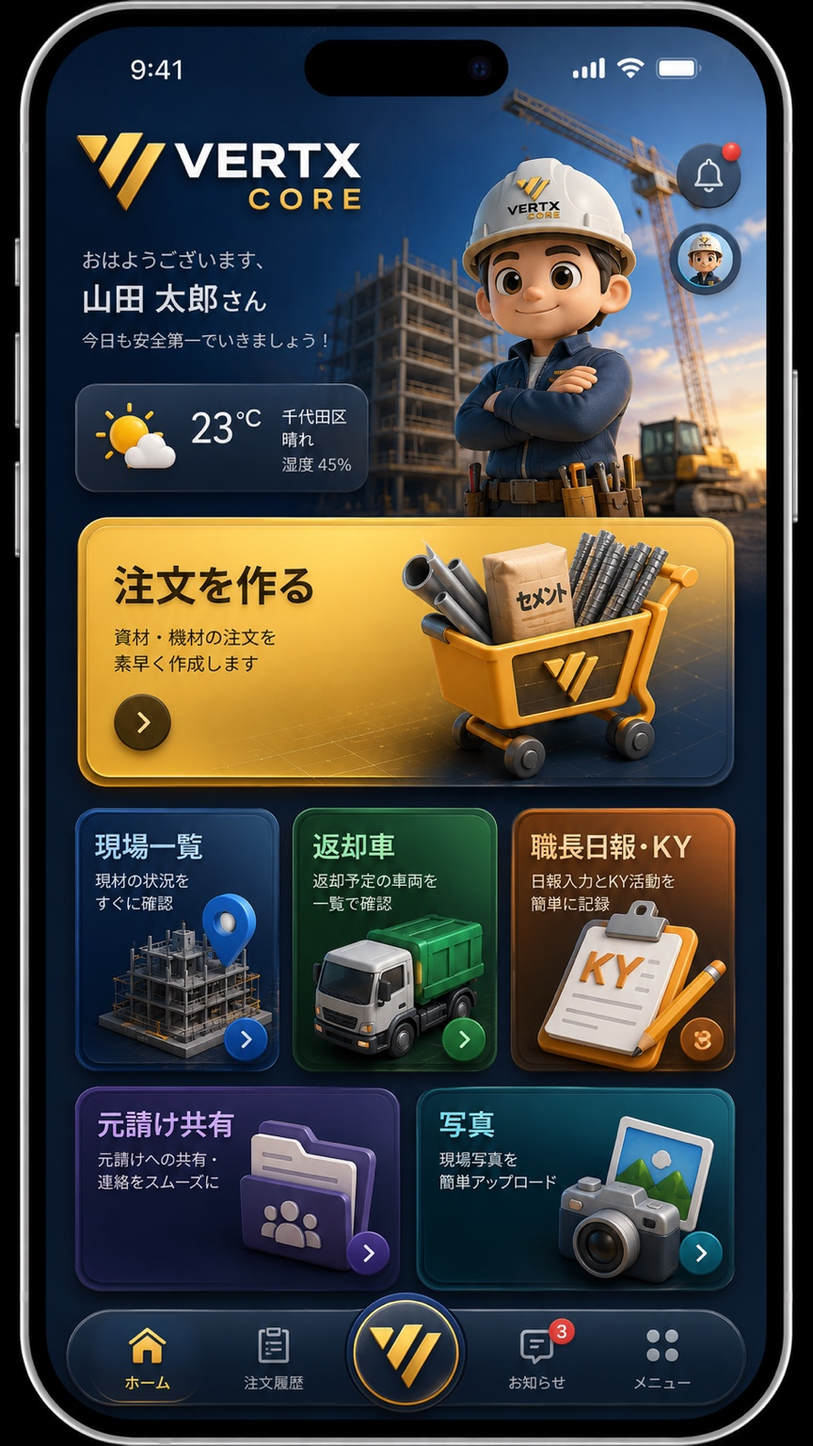
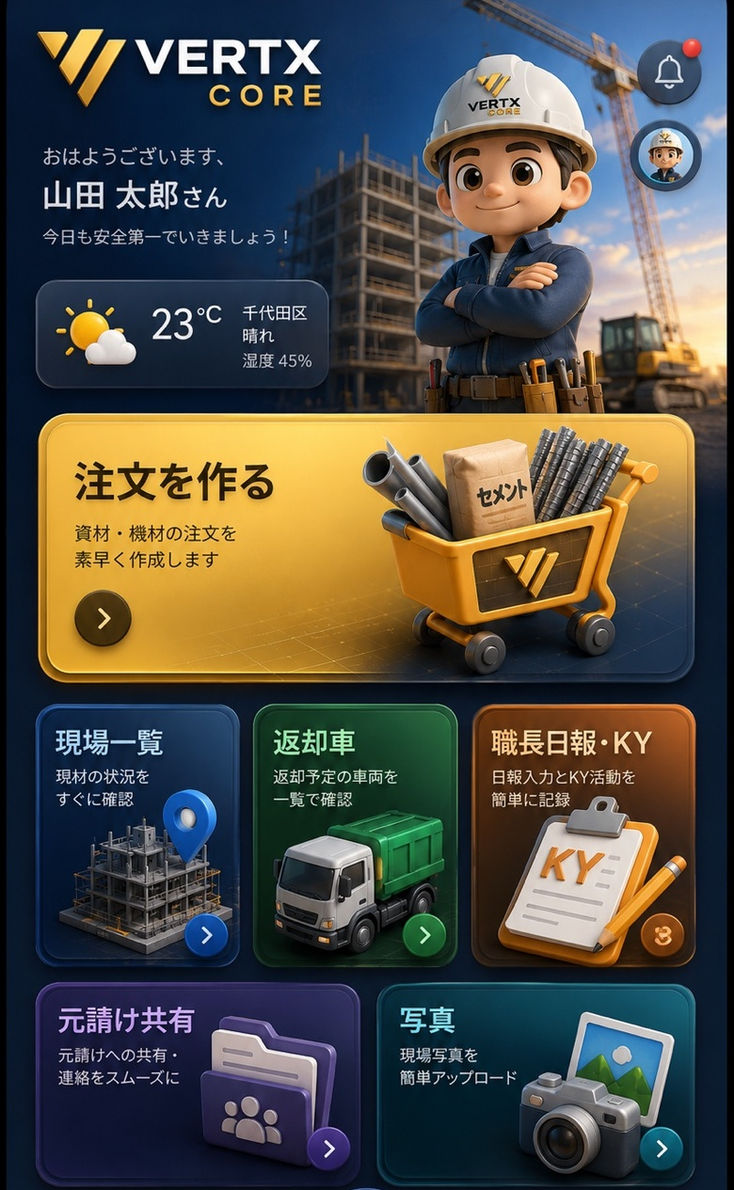
Add files via upload

diff --git a/v734work/app.js b/v734work/app.js
@@ -1,4 +1,4 @@
-const VERTX_BUILD='7.34.0';
+const VERTX_BUILD='7.35.0';
 // VERTX CORE v5.8 NEXT UI + BILLING
 const VERTX_SESSION_KEY='vertx_core_company_session';
 let supabaseClient=null;
@@ -47,7 +47,7 @@ async function runSystemCheck(){
   checks.push(['資材ID重複',new Set(ids).size===ids.length,`${ids.length}件`]);
   checks.push(['資材名重複',new Set(names).size===names.length,`${names.length}件`]);
   checks.push(['注文下書き',true,Object.keys(state.cart||{}).length?`${Object.keys(state.cart).length}種類保存中`:'空']);
-  const coreIssues=runCoreSelfCheck();checks.push(['画面・ボタン整合性',coreIssues.length===0,coreIssues.length?coreIssues.slice(0,3).join(' / '):'主要画面・リンクOK']);checks.push(['ビルド',VERTX_BUILD==='7.34.0',`v${VERTX_BUILD}`]);
+  const coreIssues=runCoreSelfCheck();checks.push(['画面・ボタン整合性',coreIssues.length===0,coreIssues.length?coreIssues.slice(0,3).join(' / '):'主要画面・リンクOK']);checks.push(['ビルド',VERTX_BUILD==='7.35.0',`v${VERTX_BUILD}`]);
   try{const r=await fetch('/api/config',{cache:'no-store'});const cfg=await r.json();checks.push(['クラウド設定',Boolean(cfg.configured),cfg.configured?'Supabase OK':'設定不足']);checks.push(['AI/課金API',r.ok,r.ok?'API応答OK':'API応答エラー']);}catch(e){checks.push(['API接続',false,'接続できません']) }
   out.innerHTML=checks.map(([n,ok,d])=>`<div class="dev-check-row ${ok?'ok':'ng'}"><span>${ok?'✓':'!'} ${escapeHtml(n)}</span><small>${escapeHtml(d)}</small></div>`).join('');
   audit('システム診断',checks.every(x=>x[1])?'PASS':'要確認');
@@ -188,6 +188,7 @@ function go(screenId){
   $$('.nav-item').forEach(el=>el.classList.toggle('active',el.dataset.go===screenId || (screenId==='confirm'&&el.dataset.go==='order')));
   if(screenId==='history')renderHistory(); if(screenId==='more')updateLearningCount(); if(screenId==='confirm')renderConfirm(); if(screenId==='sites')renderSites(); if(screenId==='favorites')renderFavorites(); if(screenId==='materialsMaster')renderMaterialMaster(); if(screenId==='drawings')renderDrawings();if(screenId==='assist')loadAssistDrawings();if(screenId==='siteStock')renderSiteStock();if(screenId==='shortage')renderShortage();if(screenId==='sets')renderSets();if(screenId==='dispatch')renderDispatch();if(screenId==='compare')loadCompareDrawings();if(screenId==='siteDashboard')renderSiteDashboard();if(screenId==='analytics')renderAnalytics();if(screenId==='members')renderMembers();if(screenId==='plans')renderPlans();if(screenId==='returns')renderReturns();if(screenId==='returnLoad')renderReturnLoad();if(screenId==='siteCosts')renderSiteCosts();if(screenId==='siteQr')renderSiteQr();if(screenId==='suppliers')renderSuppliers();if(screenId==='auditLog')renderAuditLog();if(screenId==='devTest')renderDevTestPanel();if(screenId==='dailyReport')renderDailyReport();if(screenId==='siteAlbum')renderSiteAlbum();if(screenId==='clientShare')renderClientShare();
   applyViewerReadOnly(screenId);
+  if(screenId==='home'){renderHomeIdentityLive();updateHomeNoticeBadge();refreshHomeWeather(false)}
   window.scrollTo({top:0,behavior:'instant'});
 }
 function totals(){return MATERIALS.reduce((a,m)=>{const q=state.cart[m.id]||0;a.qty+=q;a.weight+=q*Number(m.weight||0);return a},{qty:0,weight:0})}
@@ -311,7 +312,7 @@ function printOrderById(id){const o=getHistory().find(x=>x.id===id);if(o)printOr
 function printDraft(){const o=currentDraft();if(!o.items.length)return toast('資材を選択してください');printOrder(o)}
 async function printOrder(o){
   const area=$('#printArea');
-  area.innerHTML=`<div class="print-sheet" style="display:block;background:#fff;color:#111;width:794px;min-height:1123px;padding:48px;box-sizing:border-box;font-family:-apple-system,BlinkMacSystemFont,'Noto Sans JP','Yu Gothic',sans-serif"><h1 style="font-size:28px;margin:0 0 28px">VERTX CORE 資材注文書</h1><p>現場：<b>${escapeHtml(o.site)}</b></p>${o.date?`<p>希望日：${escapeHtml(o.date)}</p>`:''}<p>合計：<b>${o.qty}点</b>　合計重量：<b>${formatWeight(o.weight)}</b></p><p>推奨車両：<b>${escapeHtml(o.truck||truckFor(o.weight))}</b></p>${o.drawingId?`<p>添付図面：<b>${escapeHtml(o.drawingName||'図面')}</b></p>`:''}<table style="width:100%;border-collapse:collapse;margin-top:24px"><thead><tr><th style="border:1px solid #999;padding:9px;text-align:left">資材名</th><th style="border:1px solid #999;padding:9px">数量</th><th style="border:1px solid #999;padding:9px">単重</th><th style="border:1px solid #999;padding:9px">重量</th></tr></thead><tbody>${o.items.map(i=>`<tr><td style="border:1px solid #bbb;padding:9px">${escapeHtml(i.name)}</td><td style="border:1px solid #bbb;padding:9px;text-align:center">${i.qty}${escapeHtml(i.unit)}</td><td style="border:1px solid #bbb;padding:9px;text-align:right">${Number(i.weight).toFixed(2)}kg</td><td style="border:1px solid #bbb;padding:9px;text-align:right">${(i.qty*i.weight).toFixed(1)}kg</td></tr>`).join('')}</tbody></table>${o.memo?`<p style="margin-top:24px">メモ：${escapeHtml(o.memo)}</p>`:''}<p style="margin-top:32px;font-size:11px;color:#666">VERTX CORE v7.34</p></div>`;
+  area.innerHTML=`<div class="print-sheet" style="display:block;background:#fff;color:#111;width:794px;min-height:1123px;padding:48px;box-sizing:border-box;font-family:-apple-system,BlinkMacSystemFont,'Noto Sans JP','Yu Gothic',sans-serif"><h1 style="font-size:28px;margin:0 0 28px">VERTX CORE 資材注文書</h1><p>現場：<b>${escapeHtml(o.site)}</b></p>${o.date?`<p>希望日：${escapeHtml(o.date)}</p>`:''}<p>合計：<b>${o.qty}点</b>　合計重量：<b>${formatWeight(o.weight)}</b></p><p>推奨車両：<b>${escapeHtml(o.truck||truckFor(o.weight))}</b></p>${o.drawingId?`<p>添付図面：<b>${escapeHtml(o.drawingName||'図面')}</b></p>`:''}<table style="width:100%;border-collapse:collapse;margin-top:24px"><thead><tr><th style="border:1px solid #999;padding:9px;text-align:left">資材名</th><th style="border:1px solid #999;padding:9px">数量</th><th style="border:1px solid #999;padding:9px">単重</th><th style="border:1px solid #999;padding:9px">重量</th></tr></thead><tbody>${o.items.map(i=>`<tr><td style="border:1px solid #bbb;padding:9px">${escapeHtml(i.name)}</td><td style="border:1px solid #bbb;padding:9px;text-align:center">${i.qty}${escapeHtml(i.unit)}</td><td style="border:1px solid #bbb;padding:9px;text-align:right">${Number(i.weight).toFixed(2)}kg</td><td style="border:1px solid #bbb;padding:9px;text-align:right">${(i.qty*i.weight).toFixed(1)}kg</td></tr>`).join('')}</tbody></table>${o.memo?`<p style="margin-top:24px">メモ：${escapeHtml(o.memo)}</p>`:''}<p style="margin-top:32px;font-size:11px;color:#666">VERTX CORE v7.36</p></div>`;
   const sheet=area.firstElementChild;
   try{
     if(!window.html2canvas||!window.jspdf?.jsPDF)throw new Error('PDF機能の読み込みに失敗しました');
@@ -904,6 +905,75 @@ function escapeHtml(v=''){return String(v).replace(/[&<>'"]/g,c=>({'&':'&amp;','
 function toast(msg){const el=$('#toast');el.textContent=msg;el.classList.add('show');clearTimeout(toast.timer);toast.timer=setTimeout(()=>el.classList.remove('show'),1800)}
 
 
+const HOME_WEATHER_CACHE_KEY='vertx_core_home_weather_v736';
+function homeDisplayName(){
+  const s=getCompanySession()||{};
+  const raw=String(s.user||getSavedIdentity()?.user||cloudUser?.user_metadata?.name||cloudUser?.email||'ユーザー').trim();
+  return raw.includes('@')?raw.split('@')[0]:raw;
+}
+function weatherLabel(code){
+  const c=Number(code); if(c===0)return ['☀','晴れ']; if([1,2].includes(c))return ['🌤','晴れ時々くもり']; if(c===3)return ['☁','くもり']; if([45,48].includes(c))return ['🌫','霧']; if([51,53,55,56,57,61,63,65,66,67,80,81,82].includes(c))return ['🌧','雨']; if([71,73,75,77,85,86].includes(c))return ['🌨','雪']; if([95,96,99].includes(c))return ['⛈','雷雨']; return ['🌤','天気'];
+}
+function renderHomeIdentityLive(){
+  const s=getCompanySession()||{};
+  const name=homeDisplayName();
+  if($('#homeUserLive'))$('#homeUserLive').textContent=name||'ユーザー';
+  if($('#homeCompanyLive'))$('#homeCompanyLive').textContent=s.company||'VERTX CORE';
+  if($('#homeRoleLive'))$('#homeRoleLive').textContent=`${navigator.onLine?'● ONLINE':'● OFFLINE'} · ${roleLabel(getEffectiveRole())}`;
+  const dot=$('#homeOnlineDot'); if(dot){dot.style.background=navigator.onLine?'#27cf82':'#ef544d';dot.title=navigator.onLine?'オンライン':'オフライン'}
+}
+function renderHomeWeatherData(w){
+  if(!w)return; const [icon,text]=weatherLabel(w.code);
+  $('#homeWeatherIcon')&&($('#homeWeatherIcon').textContent=icon);
+  $('#homeWeatherTemp')&&($('#homeWeatherTemp').textContent=`${Math.round(Number(w.temp)||0)}°C`);
+  $('#homeWeatherText')&&($('#homeWeatherText').textContent=text);
+  $('#homeWeatherHumidity')&&($('#homeWeatherHumidity').textContent=`湿度 ${Math.round(Number(w.humidity)||0)}%`);
+  $('#homeWeatherPlace')&&($('#homeWeatherPlace').textContent=w.place||'現在地');
+}
+async function refreshHomeWeather(force=false){
+  try{
+    const cached=JSON.parse(nativeGet(HOME_WEATHER_CACHE_KEY)||'null');
+    if(!force&&cached&&Date.now()-Number(cached.at||0)<30*60*1000){renderHomeWeatherData(cached);return}
+  }catch{}
+  const getPos=()=>new Promise(resolve=>{if(!navigator.geolocation)return resolve({coords:{latitude:35.6812,longitude:139.7671},fallback:true});navigator.geolocation.getCurrentPosition(resolve,()=>resolve({coords:{latitude:35.6812,longitude:139.7671},fallback:true}),{enableHighAccuracy:false,timeout:5000,maximumAge:3600000})});
+  try{
+    const pos=await getPos(),lat=pos.coords.latitude,lon=pos.coords.longitude;
+    const url=`https://api.open-meteo.com/v1/forecast?latitude=${encodeURIComponent(lat)}&longitude=${encodeURIComponent(lon)}&current=temperature_2m,relative_humidity_2m,weather_code&timezone=auto`;
+    const r=await fetch(url,{cache:'no-store'}); if(!r.ok)throw new Error('weather'); const d=await r.json();
+    const w={temp:d.current?.temperature_2m,humidity:d.current?.relative_humidity_2m,code:d.current?.weather_code,place:pos.fallback?'東京':'現在地',at:Date.now()};
+    nativeSet(HOME_WEATHER_CACHE_KEY,JSON.stringify(w)); renderHomeWeatherData(w);
+  }catch(e){const el=$('#homeWeatherText');if(el)el.textContent='天気を取得できません'}
+}
+function homeNoticeItems(){
+  const today=todayIso(),orders=getHistory(),returns=getReturnTruckRequests(); const rows=[];
+  const pending=orders.filter(x=>x.status==='承認待ち').length; if(pending)rows.push({title:`承認待ち ${pending}件`,sub:'注文履歴から確認できます',go:'history'});
+  const deliveries=orders.filter(x=>x.date===today).length; if(deliveries)rows.push({title:`今日の搬入 ${deliveries}件`,sub:'配車予定を確認',go:'dispatch'});
+  const ret=returns.filter(x=>x.date===today&&x.status!=='返却完了').length; if(ret)rows.push({title:`今日の返却 ${ret}件`,sub:'返却予定を確認',go:'dispatch'});
+  const reports=getDailyReports().filter(x=>x.date===today).length; if(reports)rows.push({title:`本日の日報 ${reports}件`,sub:'KY・引継ぎを確認',go:'dailyReport'});
+  if(!rows.length)rows.push({title:'新しい通知はありません',sub:'今日も安全第一で。',go:'home'}); return rows;
+}
+function updateHomeNoticeBadge(){const n=homeNoticeItems().filter(x=>x.go!=='home').length;const el=$('#homeNoticeCount');if(el){el.textContent=String(n);el.style.display=n?'grid':'none'}}
+function openHomeLiveModal(kind){
+  const modal=$('#homeLiveModal'),body=$('#homeLiveModalBody'),title=$('#homeLiveModalTitle'),eye=$('#homeLiveModalEyebrow'); if(!modal||!body)return;
+  if(kind==='notice'){
+    eye.textContent='NOTIFICATIONS';title.textContent='通知';const rows=homeNoticeItems();body.innerHTML=rows.map(x=>`<button type="button" data-live-go="${escapeHtml(x.go)}"><span class="home-live-row"><div><b>${escapeHtml(x.title)}</b><small>${escapeHtml(x.sub)}</small></div><strong>›</strong></span></button>`).join('');
+    body.querySelectorAll('[data-live-go]').forEach(b=>b.onclick=()=>{modal.classList.add('hidden');go(b.dataset.liveGo)});
+  }else{
+    const s=getCompanySession()||{};eye.textContent='ACCOUNT';title.textContent='アカウント';body.innerHTML=`<div class="home-live-row"><div><b>${escapeHtml(homeDisplayName())}</b><small>${escapeHtml(s.company||'会社未設定')}</small></div><strong class="status-online">${navigator.onLine?'● ONLINE':'● OFFLINE'}</strong></div><div class="home-live-row"><div><b>${escapeHtml(roleLabel(getEffectiveRole()))}</b><small>現在の権限</small></div><strong>${escapeHtml((s.plan||'free').toUpperCase())}</strong></div><button class="gold" type="button" data-live-go="companySettings">会社・アカウント設定</button><button type="button" id="homeModalSignOut">ログアウト</button>`;body.querySelector('[data-live-go]')?.addEventListener('click',()=>{modal.classList.add('hidden');go('companySettings')});$('#homeModalSignOut')?.addEventListener('click',signOut);
+  }
+  modal.classList.remove('hidden'); document.body.classList.add('modal-open');
+}
+function initLiveHomeUi(){
+  renderHomeIdentityLive();updateHomeNoticeBadge();refreshHomeWeather(false);
+  $('#homeNoticeBtn')&&($('#homeNoticeBtn').onclick=()=>openHomeLiveModal('notice'));
+  $('#homeAccountBtn')&&($('#homeAccountBtn').onclick=()=>openHomeLiveModal('account'));
+  $('#closeHomeLiveModal')&&($('#closeHomeLiveModal').onclick=()=>{$('#homeLiveModal')?.classList.add('hidden');document.body.classList.remove('modal-open')});
+  $('#homeLiveModal')&&($('#homeLiveModal').onclick=e=>{if(e.target.id==='homeLiveModal'){$('#homeLiveModal').classList.add('hidden');document.body.classList.remove('modal-open')}});
+  window.addEventListener('online',()=>{renderHomeIdentityLive();updateHomeNoticeBadge()});window.addEventListener('offline',renderHomeIdentityLive);
+  document.addEventListener('visibilitychange',()=>{if(!document.hidden){renderHomeIdentityLive();updateHomeNoticeBadge();refreshHomeWeather(false)}});
+}
+
+
 function renderCompanyIdentity(){
   const s=getCompanySession();
   const gate=$('#companyGate');
@@ -913,7 +983,7 @@ function renderCompanyIdentity(){
   if($('#companyNameView'))$('#companyNameView').textContent=s.company||'-';
   if($('#companyCodeView'))$('#companyCodeView').textContent=s.code||'-';
   if($('#companyUserView'))$('#companyUserView').textContent=s.user||cloudUser?.email||'-';
-  document.body.dataset.role=getEffectiveRole();applyRoleUi();applyPlanUi();updateDevTestBanner();
+  document.body.dataset.role=getEffectiveRole();applyRoleUi();applyPlanUi();updateDevTestBanner();renderHomeIdentityLive();updateHomeNoticeBadge();
   return true;
 }
 function setAuthStatus(msg){const el=$('#authStatus');if(el)el.textContent=msg}
@@ -1210,9 +1280,9 @@ function runCoreSelfCheck(){
   const screens=new Set(Array.from(document.querySelectorAll('section.screen[id]')).map(x=>x.id));
   document.querySelectorAll('[data-go]').forEach(el=>{const target=el.dataset.go;if(target&&!screens.has(target))issues.push('リンク先不足:'+target)});
   ['searchInput','toConfirmBtn','submitOrderBtn','runAiBtn','voiceStartBtn','runPhotoAiBtn','requestReturnTruckBtn','saveDailyReportBtn','publishShareBtn','openFullManual'].forEach(id=>{if(!document.getElementById(id))issues.push('操作部品不足:'+id)});
-  if(VERTX_BUILD!=='7.34.0')issues.push('ビルド番号不一致:'+VERTX_BUILD);
+  if(VERTX_BUILD!=='7.35.0')issues.push('ビルド番号不一致:'+VERTX_BUILD);
   const unique=[...new Set(issues)];
-  if(unique.length)console.warn('CORE SELF CHECK',unique);else console.info('CORE SELF CHECK PASS v7.34');
+  if(unique.length)console.warn('CORE SELF CHECK',unique);else console.info('CORE SELF CHECK PASS v7.36');
   return unique;
 }
 
@@ -1281,7 +1351,7 @@ function openContextHelp(screenId){
   $('#contextHelpModal')?.classList.remove('hidden');
 }
 function closeContextHelp(){ $('#contextHelpModal')?.classList.add('hidden') }
-function startApp(){if(appStarted)return;appStarted=true;ensureContextHelpButtons();bindQuickActions();const d=new Date();d.setDate(d.getDate()+1);if($('#deliveryDate')&&!getOrderMeta().date)$('#deliveryDate').value=d.toISOString().slice(0,10);restoreOrderMeta();if(state.selectedSite&&$('#siteName'))$('#siteName').value=state.selectedSite;renderCategories();renderMaterials();updateDashboard();updateDevTestBanner();toggleAssistOptions();const last=lsGet('vertx_core_last_screen')||'home';go(canOpenScreen(last)?last:'home');prefillSiteFromUrl()}
+function startApp(){if(appStarted)return;appStarted=true;initLiveHomeUi();ensureContextHelpButtons();bindQuickActions();const d=new Date();d.setDate(d.getDate()+1);if($('#deliveryDate')&&!getOrderMeta().date)$('#deliveryDate').value=d.toISOString().slice(0,10);restoreOrderMeta();if(state.selectedSite&&$('#siteName'))$('#siteName').value=state.selectedSite;renderCategories();renderMaterials();updateDashboard();updateDevTestBanner();toggleAssistOptions();const last=lsGet('vertx_core_last_screen')||'home';go(canOpenScreen(last)?last:'home');prefillSiteFromUrl()}
 async function cloudBoot(){
   prefillSavedIdentity();
   prefillCompanyFromUrl();

diff --git a/v734work/style.css b/v734work/style.css
@@ -834,3 +834,94 @@ body:has(.exact-home.active) .app-shell{
     transform:none!important;
   }
 }
+
+/* ===== VERTX CORE v7.35 FULLBLEED HOME FIX ===== */
+/* 1) 参照画像のiPhone外枠と焼き込みナビを画像側で除去済み。画面幅いっぱいに表示する。 */
+body:has(.exact-home.active){background:#020812!important;overflow-y:auto!important;}
+body:has(.exact-home.active) .topbar{display:none!important;}
+body:has(.exact-home.active) .app-shell{
+  width:100%!important;
+  max-width:none!important;
+  margin:0!important;
+  padding:0 0 calc(98px + env(safe-area-inset-bottom))!important;
+  background:#020812!important;
+  box-shadow:none!important;
+}
+body:has(.exact-home.active) main,
+body:has(.exact-home.active) .exact-home,
+body:has(.exact-home.active) .exact-home-stage{
+  width:100%!important;
+  max-width:none!important;
+  margin:0!important;
+  padding:0!important;
+  overflow:visible!important;
+  background:#020812!important;
+}
+.exact-home-art{
+  display:block!important;
+  width:100vw!important;
+  max-width:none!important;
+  height:auto!important;
+  margin:0!important;
+  object-fit:cover!important;
+  object-position:top center!important;
+  border:0!important;
+  border-radius:0!important;
+  box-shadow:none!important;
+}
+/* 2) 画像に焼き込まれていた下部Dockは削除し、本物のナビを同じ位置に固定 */
+body:has(.exact-home.active) .bottom-nav{
+  display:grid!important;
+  position:fixed!important;
+  z-index:900!important;
+  left:10px!important;
+  right:10px!important;
+  bottom:calc(8px + env(safe-area-inset-bottom))!important;
+  width:auto!important;
+  height:78px!important;
+  margin:0!important;
+}
+/* 3) HOME画像内カードのタップ領域をクロップ後の座標に合わせる */
+.hs-order{left:4.25%!important;top:34.77%!important;width:91.38%!important;height:22.22%!important}
+.hs-sites{left:4.36%!important;top:58.82%!important;width:29.91%!important;height:20.88%!important}
+.hs-return{left:34.94%!important;top:58.82%!important;width:29.91%!important;height:20.88%!important}
+.hs-ky{left:65.06%!important;top:58.82%!important;width:30.46%!important;height:20.88%!important}
+.hs-share{left:4.36%!important;top:81.16%!important;width:45.42%!important;height:16.76%!important}
+.hs-photo{left:50.55%!important;top:81.16%!important;width:44.86%!important;height:16.76%!important}
+/* 画像側から下部ナビを消したので旧ナビ用hotspotは無効化 */
+.exact-home .hs-history,.exact-home .hs-center,.exact-home .hs-notice,.exact-home .hs-menu{display:none!important}
+@media(min-width:721px){
+  body:has(.exact-home.active) .exact-home-stage,
+  body:has(.exact-home.active) .exact-home-art{width:min(100vw,720px)!important;margin-left:auto!important;margin-right:auto!important}
+  body:has(.exact-home.active) .app-shell{max-width:720px!important;margin:0 auto!important}
+}
+
+
+/* ===== VERTX CORE v7.36 LIVE HOME + READABILITY ===== */
+:root{--v736-text:#f7fbff;--v736-sub:#d4e2f1;--v736-dim:#a9bed3;--v736-deep:#03101f}
+/* dark-page readability: no low-contrast legacy text */
+.screen:not(.exact-home),.screen:not(.exact-home) .card,.screen:not(.exact-home) .form-card,.screen:not(.exact-home) .control-section,.screen:not(.exact-home) .material,.screen:not(.exact-home) .history-item,.screen:not(.exact-home) .site-card{color:var(--v736-text)!important}
+.screen:not(.exact-home) h1,.screen:not(.exact-home) h2,.screen:not(.exact-home) h3,.screen:not(.exact-home) h4,.screen:not(.exact-home) h5,.screen:not(.exact-home) b,.screen:not(.exact-home) strong,.screen:not(.exact-home) summary{color:var(--v736-text)!important;text-shadow:none!important}
+.screen:not(.exact-home) p,.screen:not(.exact-home) small,.screen:not(.exact-home) label,.screen:not(.exact-home) li,.screen:not(.exact-home) .muted,.screen:not(.exact-home) .history-meta,.screen:not(.exact-home) .material-info small{color:var(--v736-sub)!important;opacity:1!important}
+.screen:not(.exact-home) .eyebrow,.screen:not(.exact-home) .control-section>span{color:#ffd55d!important}
+.screen:not(.exact-home) .primary-btn,.screen:not(.exact-home) .chip.active{color:#08111c!important;-webkit-text-fill-color:#08111c!important}
+.screen:not(.exact-home) .secondary-btn,.screen:not(.exact-home) .text-btn,.screen:not(.exact-home) button:not(.primary-btn):not(.chip.active){-webkit-text-fill-color:currentColor}
+/* kill remaining white legacy islands that caused black-on-white/black-on-dark mixes */
+.smart-suggestions,.recent-materials,.ai-upload-panel,.ai-file-drop,.assist-upload,.assist-source,.material-group-head,.share-preview,.manual-example,.field-control-intro{background:linear-gradient(145deg,#102b49,#06172a)!important;border-color:rgba(112,168,226,.26)!important;color:var(--v736-text)!important}
+.smart-suggestions *,.recent-materials *,.ai-upload-panel *,.ai-file-drop *,.assist-upload *,.assist-source *,.material-group-head *,.share-preview *{color:var(--v736-text)!important}
+
+/* live layers replace baked dummy name/weather/icons while keeping the worker artwork */
+.exact-home-stage{isolation:isolate}
+.home-live-identity{position:absolute;z-index:4;left:5.4%;top:13.8%;width:45%;min-height:13.6%;padding:3.2% 2% 2.4%;background:linear-gradient(90deg,rgba(3,16,31,.98) 0%,rgba(3,16,31,.96) 68%,rgba(3,16,31,0) 100%);color:#fff;pointer-events:none}
+.home-live-identity small{display:block;color:#f4bd36;font-size:clamp(9px,2.2vw,14px);font-weight:900;letter-spacing:.08em;margin-bottom:3px;white-space:nowrap;overflow:hidden;text-overflow:ellipsis}
+.home-live-identity span{display:block;color:#e8f1fb;font-size:clamp(11px,2.5vw,16px);font-weight:700}
+.home-live-identity strong{display:block;color:#fff;font-size:clamp(22px,5.8vw,39px);line-height:1.08;font-weight:950;letter-spacing:-.05em;white-space:nowrap;overflow:hidden;text-overflow:ellipsis;text-shadow:0 3px 12px rgba(0,0,0,.45)}
+.home-live-identity em{display:inline-flex;margin-top:6px;padding:4px 8px;border-radius:999px;background:rgba(23,175,101,.14);border:1px solid rgba(67,229,151,.30);color:#78f0b5;font-size:clamp(8px,1.9vw,11px);font-style:normal;font-weight:900;letter-spacing:.08em}
+.home-live-weather{position:absolute;z-index:5;left:5.3%;top:25.7%;width:45.5%;min-height:12.7%;padding:2.4% 2.5%;display:grid;grid-template-columns:auto auto 1fr;align-items:center;gap:2.2%;border-radius:18px;background:linear-gradient(145deg,rgba(18,47,79,.99),rgba(6,24,43,.99));border:1px solid rgba(158,194,230,.32);box-shadow:0 10px 24px rgba(0,0,0,.32);color:#fff;pointer-events:none}
+.home-live-weather>span{font-size:clamp(27px,7vw,48px)}.home-live-weather>strong{font-size:clamp(23px,6vw,42px);font-weight:900;white-space:nowrap}.home-live-weather div{min-width:0}.home-live-weather b,.home-live-weather small{display:block;color:#fff!important;font-size:clamp(8px,2.15vw,14px);line-height:1.35;white-space:nowrap;overflow:hidden;text-overflow:ellipsis}.home-live-weather small{color:#d5e3f1!important}
+.home-live-circle{position:absolute;z-index:8;width:10.5%;aspect-ratio:1;border-radius:50%;display:grid;place-items:center;border:1px solid rgba(160,197,233,.34);background:linear-gradient(145deg,rgba(21,49,80,.98),rgba(5,18,34,.99));box-shadow:0 8px 20px rgba(0,0,0,.38);color:#fff;cursor:pointer}.home-live-circle:active{transform:scale(.95)}.home-live-circle span{font-size:clamp(17px,4.5vw,30px);line-height:1}.home-live-notice{right:5.3%;top:8.7%}.home-live-account{right:5.3%;top:15.2%}.home-live-circle i{position:absolute;right:-1px;top:-1px;min-width:18px;height:18px;padding:0 4px;border-radius:999px;display:grid;place-items:center;background:#ef443b;color:#fff;font-size:10px;font-style:normal;font-weight:950;border:2px solid #0b1f35}.home-live-account i{width:13px;height:13px;min-width:13px;padding:0;background:#27cf82;border-color:#082038;right:1px;top:2px}
+/* disable invisible legacy notice/menu hotspots because live circles now own those actions */
+.exact-home .hs-notice,.exact-home .hs-menu{display:none!important}
+
+.home-live-modal{position:fixed;inset:0;z-index:1500;display:grid;align-items:end;background:rgba(0,0,0,.66);backdrop-filter:blur(10px);padding:12px}.home-live-modal.hidden{display:none!important}.home-live-sheet{width:min(100%,680px);margin:0 auto;padding:12px 15px calc(18px + env(safe-area-inset-bottom));border-radius:28px;background:linear-gradient(180deg,#123152,#061426);border:1px solid rgba(116,171,226,.3);box-shadow:0 28px 70px rgba(0,0,0,.55);color:#fff}.home-live-sheet-head{display:flex;align-items:flex-start;justify-content:space-between;gap:12px}.home-live-sheet-head span{display:block;color:#ffd55d;font-size:9px;letter-spacing:.22em;font-weight:950}.home-live-sheet-head h3{margin:4px 0 0;color:#fff;font-size:26px}.home-live-sheet-head button{width:42px;height:42px;border-radius:14px;border:1px solid rgba(119,172,225,.25);background:#081a2f;color:#fff;font-size:24px}.home-live-modal-body{display:grid;gap:10px;margin-top:14px}.home-live-row{padding:14px;border-radius:18px;background:#071a2e;border:1px solid rgba(111,164,219,.23);display:flex;align-items:center;justify-content:space-between;gap:12px}.home-live-row div{min-width:0}.home-live-row b,.home-live-row strong{display:block;color:#fff}.home-live-row small{display:block;color:#abc0d4;margin-top:3px}.home-live-row .status-online{color:#75ebb0}.home-live-modal-body button{width:100%;min-height:48px;border-radius:16px;border:1px solid rgba(111,164,219,.25);background:linear-gradient(145deg,#17395f,#081b30);color:#fff;font-weight:900}.home-live-modal-body button.gold{background:linear-gradient(145deg,#ffd760,#d88a0d);border-color:#ffe59a;color:#08111c}
+@media(max-width:420px){.home-live-identity{top:13.5%;left:5%;width:47%}.home-live-weather{left:5%;width:46.5%;top:25.8%;border-radius:15px}.home-live-circle{width:10.2%}}

diff --git a/v734work/index.html b/v734work/index.html
@@ -4,8 +4,8 @@
   <meta charset="utf-8">
   <meta name="viewport" content="width=device-width, initial-scale=1, viewport-fit=cover">
   <meta name="theme-color" content="#03101f">
-  <title>VERTX CORE v7.34 HOME SCROLL ART</title>
-  <link rel="stylesheet" href="style.css?v=7.34.0">
+  <title>VERTX CORE v7.36 LIVE HOME</title>
+  <link rel="stylesheet" href="style.css?v=7.36.0">
 </head>
 <body>
   <div id="cloudAuthGate" class="company-gate">
@@ -40,7 +40,7 @@
     <header class="topbar">
       <div>
         <p class="eyebrow">VERTX</p>
-        <h1>CORE <span>v7.34 HOME SCROLL ART</span></h1>
+        <h1>CORE <span>v7.36 LIVE HOME</span></h1>
       </div>
       <div class="company-top-actions"><button id="companyBadge" class="company-badge" type="button">会社未選択</button><button id="resetBtn" class="icon-btn" aria-label="データを初期化">↻</button></div>
     </header>
@@ -49,6 +49,19 @@
       <section id="home" class="screen active exact-home">
         <div class="exact-home-stage" aria-label="VERTX CORE ホーム">
           <img class="exact-home-art" src="vertx-core-home-reference.jpg" alt="VERTX CORE ホーム画面">
+          <div class="home-live-identity" aria-live="polite">
+            <small id="homeCompanyLive">VERTX CORE</small>
+            <span>おはようございます、</span>
+            <strong id="homeUserLive">ユーザー</strong>
+            <em id="homeRoleLive">ONLINE</em>
+          </div>
+          <div class="home-live-weather" id="homeWeatherCard" aria-live="polite">
+            <span id="homeWeatherIcon">☀</span>
+            <strong id="homeWeatherTemp">--°C</strong>
+            <div><b id="homeWeatherPlace">現在地</b><small id="homeWeatherText">天気を取得中</small><small id="homeWeatherHumidity">湿度 --%</small></div>
+          </div>
+          <button id="homeNoticeBtn" class="home-live-circle home-live-notice" type="button" aria-label="通知"><span>♟</span><i id="homeNoticeCount">0</i></button>
+          <button id="homeAccountBtn" class="home-live-circle home-live-account" type="button" aria-label="アカウント"><span>●</span><i id="homeOnlineDot"></i></button>
           <button class="home-hotspot hs-order" data-go="sites" aria-label="注文を作る"></button>
           <button class="home-hotspot hs-sites" data-go="sites" aria-label="現場一覧"></button>
           <button class="home-hotspot hs-return" data-go="returnLoad" aria-label="返却車"></button>
@@ -621,6 +634,14 @@
   </div>
 
 
+  <div id="homeLiveModal" class="home-live-modal hidden" role="dialog" aria-modal="true" aria-labelledby="homeLiveModalTitle">
+    <div class="home-live-sheet">
+      <div class="quick-action-handle"></div>
+      <div class="home-live-sheet-head"><div><span id="homeLiveModalEyebrow">VERTX CORE</span><h3 id="homeLiveModalTitle">アカウント</h3></div><button id="closeHomeLiveModal" type="button" aria-label="閉じる">×</button></div>
+      <div id="homeLiveModalBody" class="home-live-modal-body"></div>
+    </div>
+  </div>
+
   <div id="quickActionModal" class="quick-action-modal hidden" role="dialog" aria-modal="true" aria-labelledby="quickActionTitle">
     <div class="quick-action-sheet">
       <div class="quick-action-handle"></div>
@@ -650,6 +671,6 @@
   <script src="https://cdn.jsdelivr.net/npm/@supabase/supabase-js@2"></script>
   <script src="https://cdn.jsdelivr.net/npm/html2canvas@1.4.1/dist/html2canvas.min.js"></script>
   <script src="https://cdn.jsdelivr.net/npm/jspdf@2.5.2/dist/jspdf.umd.min.js"></script>
-  <script src="app.js?v=7.34.0"></script>
+  <script src="app.js?v=7.36.0"></script>
 </body>
 </html>

diff --git a/v734work/RELEASE_NOTES_V7_36.md b/v734work/RELEASE_NOTES_V7_36.md
@@ -1,0 +1,8 @@
+# VERTX CORE v7.36 LIVE HOME
+
+- 全画面の文字コントラストを再調整し、暗い背景上の文字を白〜明るいグレーに統一。
+- HOMEのダミー「山田太郎」を廃止し、ログイン中の会社/担当者名を表示。
+- HOME天気を位置情報 + Open-Meteoで自動更新（30分キャッシュ、再表示時更新）。
+- HOME右上の通知を実ボタン化し、承認待ち・本日の搬入/返却・日報を表示。
+- HOME右上のアカウントボタンを実装。ONLINE/OFFLINE、権限、プラン、会社設定、ログアウトを表示。
+- 職人キャラ、ヘルメット、濃紺×ゴールドのホームアートは維持。

diff --git a/v734work/RELEASE_NOTES_V7_35.md b/v734work/RELEASE_NOTES_V7_35.md
@@ -1,0 +1,9 @@
+# VERTX CORE v7.35 FULLBLEED HOME
+
+- HOME参照画像のiPhone外枠を除去
+- 画像に焼き込まれていた下部Dockを除去
+- 実際に操作できるHOME / SITES / ORDER / AI / MOREナビをHOME下部へ統合
+- HOMEビジュアルを画面幅いっぱいに表示
+- HOME全体はページ本体として縦スクロール
+- クロップ後に注文 / 現場 / 返却 / KY / 元請け共有 / 写真のタップ位置を再調整
+- 既存機能と他ページの濃紺×ゴールドUIは維持
